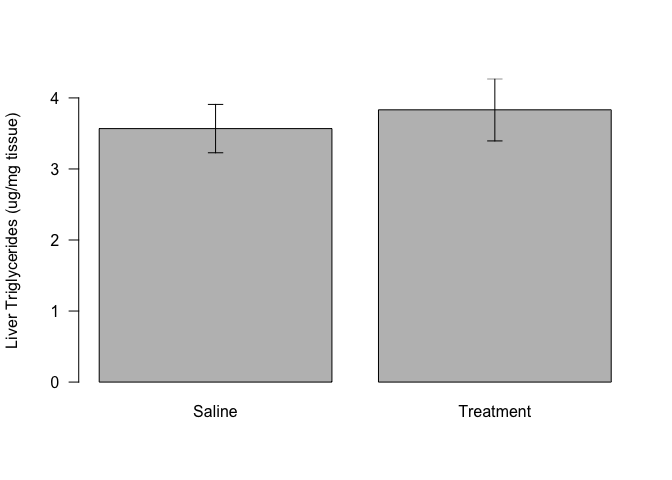
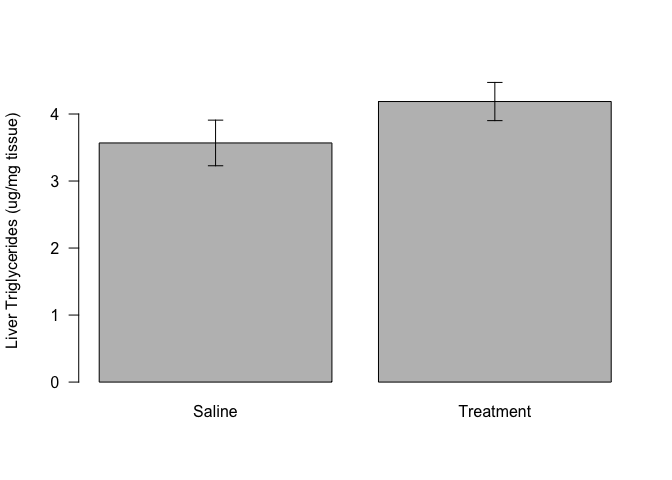
removed mouse 206 from this analysis

diff --git a/scripts/liver_triglycerides.html b/scripts/liver_triglycerides.html
@@ -59,7 +59,7 @@ if (window.hljs && document.readyState && document.readyState === "complete") {
 </div>
 
 
-<p>This only looks at animals treated <em>in utero</em> and these values are from mice which were fasted 16-20h. These data were most recently updated on Sun Nov 16 09:52:25 2014.</p>
+<p>This only looks at animals treated <em>in utero</em> and these values are from mice which were fasted 16-20h. These data were most recently updated on Sun Nov 16 12:03:53 2014.</p>
 <pre class="r"><code>filename &lt;- '../data/Liver Triglycerides.xlsx'
 worksheet &lt;- 'Summary'
 
@@ -67,6 +67,7 @@ library(xlsx)</code></pre>
 <pre><code>## Loading required package: rJava
 ## Loading required package: xlsxjars</code></pre>
 <pre class="r"><code>data &lt;- read.xlsx2(filename, sheetName=worksheet)
+data &lt;- subset(data, Mouse.ID != '206')
 data$TG &lt;- as.numeric(as.character(data$TGs..microgram.milligrams.of.tissue.))
 
 library(plyr)
@@ -83,7 +84,7 @@ levene.result &lt;- leveneTest(TG~Treatment, data=data)</code></pre>
 <pre class="r"><code>library(xtable)
 print(xtable(summary, caption = &quot;Summary Data, based on treating mice individually.  Triglycerides are in mmoles/mg of tissue&quot;, label=&quot;tab:summary-statistics&quot;), include.rownames=F, type='html')</code></pre>
 <!-- html table generated in R 3.1.1 by xtable 1.7-4 package -->
-<!-- Sun Nov 16 09:52:27 2014 -->
+<!-- Sun Nov 16 12:03:55 2014 -->
 <table border="1">
 <caption align="bottom"> 
 Summary Data, based on treating mice individually. Triglycerides are in mmoles/mg of tissue
@@ -117,21 +118,21 @@ Saline
   <tr> <td> 
 Treatment
 </td> <td align="right"> 
-3.83
+4.19
 </td> <td align="right"> 
-1.45
+0.90
 </td> <td align="right"> 
-0.44
+0.29
 </td> <td align="right">  
-11
+10
 </td> <td align="right"> 
-0.12
+0.37
 </td> </tr>
    
 <a name="tab:summary-statistics"></a>
 </table>
 
-<p>According to a Shapiro-Wilk Test, the data fit a normal distribution (p&gt;0.1247884). A Levene’s test suggested that the variance can be presumed to be equal (p=0.821563). Based on this, a Student’s T-test has a p-value of `r t.test(TG~Treatment, data=data, var.equal=T)$p.value.</p>
+<p>According to a Shapiro-Wilk Test, the data fit a normal distribution (p&gt;0.3707028). A Levene’s test suggested that the variance can be presumed to be equal (p=0.285091). Based on this, a Student’s T-test has a p-value of 0.2023664.</p>
 <pre class="r"><code>ymax &lt;- max(summary$mean) + max(summary$se)
 
 plot &lt;- barplot(summary$mean,
@@ -146,7 +147,7 @@ superpose.eb &lt;- function (x, y, ebl, ebu = ebl, length = 0.08, ...)
   length = length, ...)
 
 superpose.eb(plot, summary$mean, summary$se)</code></pre>
[2 lines of base64/hex data omitted]
 <div id="session-information" class="section level2">
 <h2>Session Information</h2>
 <pre class="r"><code>sessionInfo()</code></pre>

diff --git a/scripts/liver_triglycerides.md b/scripts/liver_triglycerides.md
@@ -2,7 +2,7 @@
 Kathryn Cyrus, Matt Peloquin, Jyothi Parvathareddy, Sridhar Jaligama, Stephania Cormier and Dave Bridges  
 November 13, 2014  
 
-This only looks at animals treated *in utero* and these values are from mice which were fasted 16-20h.  These data were most recently updated on Sun Nov 16 09:52:25 2014.
+This only looks at animals treated *in utero* and these values are from mice which were fasted 16-20h.  These data were most recently updated on Sun Nov 16 12:03:53 2014.
 
 
 ```r
@@ -19,6 +19,7 @@ library(xlsx)
 
 ```r
 data <- read.xlsx2(filename, sheetName=worksheet)
+data <- subset(data, Mouse.ID != '206')
 data$TG <- as.numeric(as.character(data$TGs..microgram.milligrams.of.tissue.))
 
 library(plyr)
@@ -43,16 +44,16 @@ print(xtable(summary, caption = "Summary Data, based on treating mice individual
 ```
 
 <!-- html table generated in R 3.1.1 by xtable 1.7-4 package -->
-<!-- Sun Nov 16 09:52:27 2014 -->
+<!-- Sun Nov 16 12:03:55 2014 -->
 <table border=1>
 <caption align="bottom"> Summary Data, based on treating mice individually.  Triglycerides are in mmoles/mg of tissue </caption>
 <tr> <th> Treatment </th> <th> mean </th> <th> sd </th> <th> se </th> <th> n </th> <th> shapiro </th>  </tr>
   <tr> <td> Saline </td> <td align="right"> 3.57 </td> <td align="right"> 1.27 </td> <td align="right"> 0.34 </td> <td align="right">  14 </td> <td align="right"> 0.77 </td> </tr>
-  <tr> <td> Treatment </td> <td align="right"> 3.83 </td> <td align="right"> 1.45 </td> <td align="right"> 0.44 </td> <td align="right">  11 </td> <td align="right"> 0.12 </td> </tr>
+  <tr> <td> Treatment </td> <td align="right"> 4.19 </td> <td align="right"> 0.90 </td> <td align="right"> 0.29 </td> <td align="right">  10 </td> <td align="right"> 0.37 </td> </tr>
    <a name=tab:summary-statistics></a>
 </table>
 
-According to a Shapiro-Wilk Test, the data fit a normal distribution (p>0.1247884).  A Levene's test suggested that the variance can be presumed to be equal (p=0.821563).  Based on this, a Student's T-test has a p-value of `r t.test(TG~Treatment, data=data, var.equal=T)$p.value.
+According to a Shapiro-Wilk Test, the data fit a normal distribution (p>0.3707028).  A Levene's test suggested that the variance can be presumed to be equal (p=0.285091).  Based on this, a Student's T-test has a p-value of 0.2023664.
 
 
 ```r
